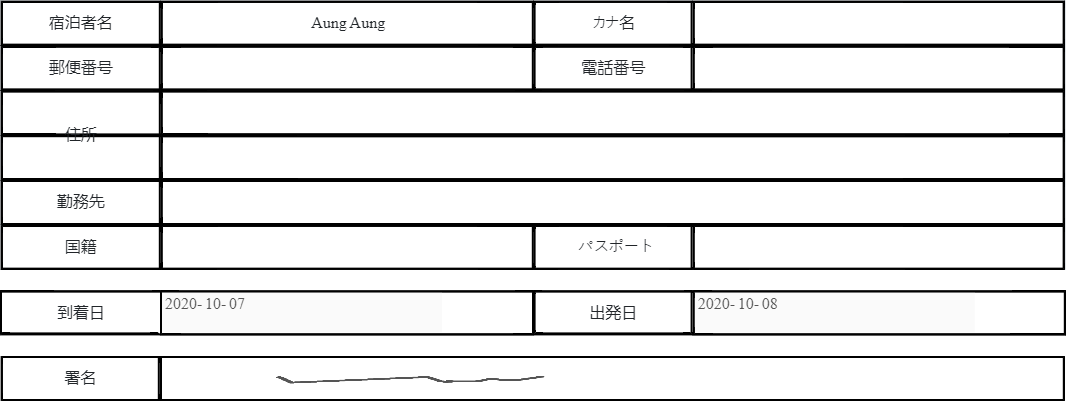
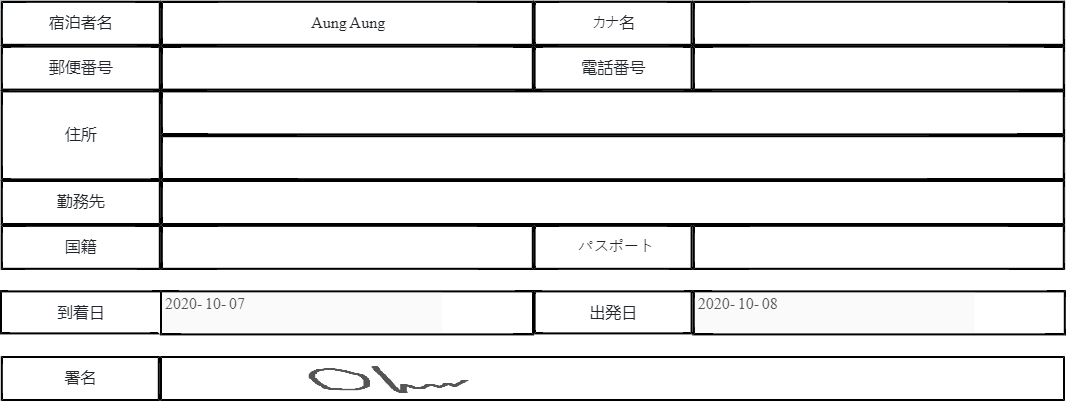
omk

diff --git a/HotelKoKoMu_CardRegister/Content/Global.css b/HotelKoKoMu_CardRegister/Content/Global.css
@@ -1,5 +1,4 @@
 body {
-   
     font-family: 'ヒラギノ角ゴ ProN W3', 'Hiragino Kaku Gothic ProN', "メイリオ", Meiryo, 'ＭＳ Ｐゴシック', 'MS PGothic', 'Helvetica Neue', Helvetica, Arial, Verdana, sans-serif;
 }
 
@@ -10,40 +9,39 @@
 .card-header {
     color: white;
     font-size: x-large;
-     font-weight:bold;
+    font-weight: bold;
 }
 
 table {
     width: 100%;
 }
 
-    .kokomuTable td {
-        border: 1px solid black;
-        padding: 0px;
-        margin: 0px;
-        border: 2px solid black;
-    }
+.kokomuTable td {
+    border: 1px solid black;
+    padding: 0px;
+    margin: 0px;
+    border: 2px solid black;
+}
 
-    .kokomuTable tr {
-        height: 45px;
-        border: 2px solid black;
-    }
+.kokomuTable tr {
+    height: 45px;
+}
 
-    .kokomuTable td input {
-        width: 100%;
-        height: 40px;
-        padding: 0px;
-        margin: 0px;
-        border: none;
-        padding-left: 3px;
-    }
+.kokomuTable td input {
+    width: 100%;
+    height: 40px;
+    padding: 0px;
+    margin: 0px;
+    border: none;
+    padding-left: 3px;
+}
 
-    .kokomuTable td label {
-        width: 100%;
-        text-align: center;
-        vertical-align: middle;
-        margin: 0px;
-    }
+.kokomuTable td label {
+    width: 100%;
+    text-align: center;
+    vertical-align: middle;
+    margin: 0px;
+}
 
 textarea {
     width: 100%;
@@ -72,8 +70,7 @@ textarea {
 .clsCancel,
 .clsConfirm,
 .clsInputKeyboard,
-.clsfinish
- {
+.clsfinish {
     height: 50px;
     text-align: center;
     border-radius: 8px;
@@ -115,9 +112,7 @@ textarea {
     border-bottom-color: #888690;
 }
 
-canvas {    
+canvas {
     position: relative;
     border: 2px solid #000;
 }
-
-

diff --git a/HotelKoKoMu_CardRegister/Controllers/HotelAPIController.cs b/HotelKoKoMu_CardRegister/Controllers/HotelAPIController.cs
@@ -93,5 +93,7 @@ namespace HotelKoKoMu_CardRegister.Controllers
             DataTable dt = await bdl.SelectDataTable(cmdText, hotelInfo.Sqlprms);
             return Ok(dt);
         }
+
+
     }
 }

diff --git a/HotelKoKoMu_CardRegister/Controllers/HomeController.cs b/HotelKoKoMu_CardRegister/Controllers/HomeController.cs
@@ -25,6 +25,5 @@ namespace HotelKoKoMu_CardRegister.Controllers
             ViewBag.Message = "Your contact page.";
             return View();
         }
-
     }
 }

diff --git a/HotelKoKoMu_CardRegister/Controllers/CardAPIController.cs b/HotelKoKoMu_CardRegister/Controllers/CardAPIController.cs
@@ -379,5 +379,9 @@ namespace HotelKoKoMu_CardRegister.Controllers
             }
             return Ok(returnStatus);
         }
+
+
+        
+
     }
 }
